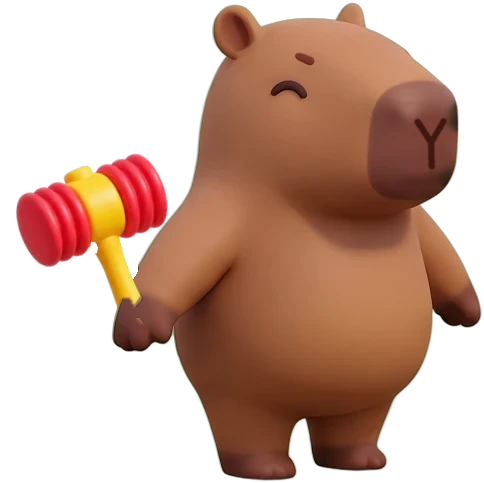
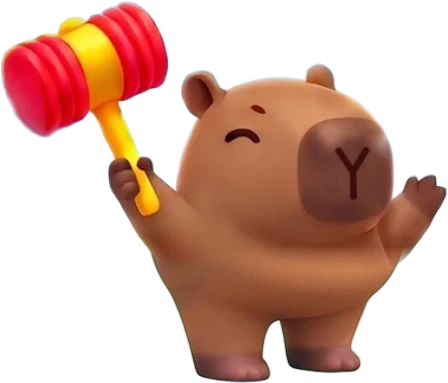
PC scene: capybara with the hammer raised (home art upper body joined to standing legs)
Claude-Session: https://claude.ai/code/session_0151HyQbunyEVHQk27fvCMAu

diff --git a/index.html b/index.html
@@ -28,7 +28,7 @@ body{margin:0;font:14px system-ui,sans-serif}
 </style>
 <script>
 (function () {
-  var BUILD = '20261114140546';
+  var BUILD = '20261114141357';
   function check() {
     fetch('version.txt?t=' + Date.now(), { cache: 'no-store' }).then(function (r) { return r.ok ? r.text() : BUILD; }).then(function (v) {
       v = (v || '').trim();
@@ -393,7 +393,7 @@ p.res-tap{display:flex;align-items:center;justify-content:center;gap:4px;font-fa
 @media (prefers-reduced-motion: reduce){*{animation-duration:1ms!important;animation-iteration-count:1!important}}
 
 /* ===== 3D redesign (backup of the previous look: backup/game.template.pre-redesign.html, git branch backup-pre-redesign) ===== */
-#home{background:#8FD3FF url(img/bg.webp?v=20261114140546) center bottom/cover no-repeat;background-attachment:local}
+#home{background:#8FD3FF url(img/bg.webp?v=20261114141357) center bottom/cover no-repeat;background-attachment:local}
 /* glancing over the shoulder: the art looks right, flipped half the time to look left */
 .char.peek.pl img.cimg{scale:-1 1}
 /* never squeeze the art to its box (some hosts add img{max-width:100%}) */
@@ -402,7 +402,7 @@ p.res-tap{display:flex;align-items:center;justify-content:center;gap:4px;font-fa
 /* duo: both seen from behind, and the capybara's back art reads smaller than the red panda's */
 #game.duo .char.capy img.cimg{scale:1.04}
 #game.duo .char.capy.peek.pl img.cimg{scale:-1.04 1.04}
-.fghill{position:absolute;left:0;top:0;width:100%;height:100%;z-index:1;pointer-events:none;background:url(img/hillfg.webp?v=20261114140546) center bottom/100% auto no-repeat}
+.fghill{position:absolute;left:0;top:0;width:100%;height:100%;z-index:1;pointer-events:none;background:url(img/hillfg.webp?v=20261114141357) center bottom/100% auto no-repeat}
 #home>.home-top,#home>.title,#home>.field{position:relative;z-index:2}
 #home>.fghill{position:absolute;flex:none;z-index:1}
 /* the bottom of the picture melts into one grass colour, the same colour the phone paints below the page */
@@ -436,7 +436,7 @@ p.res-tap{display:flex;align-items:center;justify-content:center;gap:4px;font-fa
   #pcbg .cl::after{width:40%;height:120%;right:12%;bottom:25%}
   #pcbg .bk{position:absolute;width:var(--s);height:var(--s);margin:calc(var(--s) / -2) 0 0 calc(var(--s) / -2);opacity:var(--o);animation:pcbob var(--t) ease-in-out infinite alternate}
   #pcbg .bk em{position:absolute;inset:0;transform:rotate(var(--r))}
-  #pcbg .bk i{position:absolute;inset:0;background:url(img/block.webp?v=20261114140546) center/contain no-repeat}
+  #pcbg .bk i{position:absolute;inset:0;background:url(img/block.webp?v=20261114141357) center/contain no-repeat}
   /* the letter sits on the cube's front face (its centre is left of and below the picture's centre, and the face leans) */
   #pcbg .bk b{position:absolute;left:37.5%;top:57%;transform:translate(-50%,-50%) skewY(12deg);font:700 calc(var(--s) * .36)/1 'Fredoka','Jua',sans-serif;color:#7A5320}
   #pcbg .ground{position:absolute;left:0;right:0;bottom:0;height:22vh;background:linear-gradient(rgba(140,205,95,0),#8CCD5F 45%,#79BD4E)}
@@ -444,6 +444,7 @@ p.res-tap{display:flex;align-items:center;justify-content:center;gap:4px;font-fa
   #pcbg .side.l{left:0}#pcbg .side.r{right:0}
   #pcbg .logo{position:absolute;top:36px;left:50%;transform:translateX(-50%);width:min(300px,70%);height:auto;filter:drop-shadow(0 8px 14px rgba(30,70,110,.25))}
   #pcbg .ch{height:min(26vh,230px);width:auto;position:relative}
+  #pcbg .side.l .ch{height:min(30vh,266px)} /* the capybara holds its hammer up, so its picture is taller for the same body size */
   #pcbg .sh{width:min(34%,180px);height:18px;margin:-10px 0 56px;border-radius:50%;background:radial-gradient(rgba(40,80,20,.35),rgba(40,80,20,0) 70%)}
   #pcbg .note{position:absolute;right:28px;top:28px;z-index:2;background:rgba(255,255,255,.9);border:3px solid var(--ink);border-radius:18px;padding:12px 18px;box-shadow:0 4px 0 var(--ink);color:var(--ink);font:400 18px/1.55 'Jua','Fredoka',sans-serif;white-space:nowrap}
   /* the intro film on a wide screen: the scene shows around it instead of painted bands */
@@ -502,7 +503,7 @@ html.standalone .in-ctl{padding-bottom:10px}
 .copy{color:#fff;opacity:.9;text-shadow:0 1px 3px rgba(0,0,0,.35)}
 @media (max-height:700px){.mmain{padding-block:6px}.micon{width:40px;height:40px}.mtext b{font-size:20px}.field{gap:9px;padding-top:8px}}
 /* game arena: the painted meadow; the opponent stands on the grassy ledge */
-#arena{background:#8FD3FF url(img/bg.webp?v=20261114140546) center 66%/cover no-repeat}
+#arena{background:#8FD3FF url(img/bg.webp?v=20261114141357) center 66%/cover no-repeat}
 #arena .sun,#arena .cloud,#arena .ground,#arena .ground2,#arena .groundT,#arena .groundT2,#arena .hill{display:none}
 .char img.cimg{height:100%;width:auto;display:block;animation:breathe 2.6s ease-in-out infinite;transform-origin:50% 100%;filter:drop-shadow(0 6px 5px rgba(30,50,20,.3));-webkit-user-drag:none;user-select:none}
 #char1 img.cimg{animation-delay:-1.3s}
@@ -524,7 +525,7 @@ html.standalone .in-ctl{padding-bottom:10px}
 @keyframes drip{0%{transform:translateY(0);opacity:1}100%{transform:translateY(60px);opacity:0}}
 .tut-art.lobby img{height:100%;width:auto}
 /* letter tiles thrown on the first hit look like the toy block */
-.fly{background:url(img/block.webp?v=20261114140546) center/contain no-repeat;border:0;width:38px;height:38px;margin:-19px 0 0 -19px;box-shadow:none;color:#6B4A1E;padding:5px 9px 0 0;box-sizing:border-box} /* letter on the cube's front face, not the picture's centre */
+.fly{background:url(img/block.webp?v=20261114141357) center/contain no-repeat;border:0;width:38px;height:38px;margin:-19px 0 0 -19px;box-shadow:none;color:#6B4A1E;padding:5px 9px 0 0;box-sizing:border-box} /* letter on the cube's front face, not the picture's centre */
 
 /* ===== game + popups dressed like the home screen (keyboard keeps its look) ===== */
 /* name cards, clock and top buttons: the home menu's glossy pills */
@@ -712,7 +713,7 @@ html.standalone #game .panel{padding-bottom:10px}
   <section id="home" class="screen">
     <div class="fghill" id="homeHill" aria-hidden="true"></div>
     <div class="homefade" aria-hidden="true"></div>
-    <div class="deco" aria-hidden="true"><img class="dtile" src="img/tileA.webp?v=20261114140546" alt="" style="left:3%;top:31%;--r:-8deg"><img class="dtile" src="img/tileQ.webp?v=20261114140546" alt="" style="right:3%;top:29%;--r:9deg;animation-delay:-1.2s"></div>
+    <div class="deco" aria-hidden="true"><img class="dtile" src="img/tileA.webp?v=20261114141357" alt="" style="left:3%;top:31%;--r:-8deg"><img class="dtile" src="img/tileQ.webp?v=20261114141357" alt="" style="right:3%;top:29%;--r:9deg;animation-delay:-1.2s"></div>
     <div class="home-top gut">
       <div class="lt-grp"><button class="pill" id="langBtn" type="button" hidden></button><button class="pill nick-pill" id="nickBtn" type="button"></button></div>
       <div class="rt">
@@ -723,7 +724,7 @@ html.standalone #game .panel{padding-bottom:10px}
       </div>
     </div>
     <h1 class="title gut" aria-label="First n Last">
-      <img class="logo-img" src="img/logo.webp?v=20261114140546" alt="" draggable="false">
+      <img class="logo-img" src="img/logo.webp?v=20261114141357" alt="" draggable="false">
       <span class="ribbon" data-t="tagline"></span>
     </h1>
     <div class="stage" id="homeCast"><div class="ev-banner" id="evBanner" hidden></div></div>
@@ -748,7 +749,7 @@ html.standalone #game .panel{padding-bottom:10px}
       <div class="ground"></div><div class="ground2"></div><div class="groundT"></div><div class="groundT2"></div><div class="hill"></div>
       <div class="card" id="card1"><div class="nm" id="name1"></div><div class="hearts" id="hearts1"></div></div>
       <div class="hud" id="hud"><div class="clkwrap" id="clkW"><div class="clock" id="clock">2:00</div><div class="hint-cd" id="hintCd"></div></div></div>
-      <img class="plat" src="img/plat.webp?v=20261114140546" alt="" draggable="false"><div class="char" id="char1"></div>
+      <img class="plat" src="img/plat.webp?v=20261114141357" alt="" draggable="false"><div class="char" id="char1"></div>
       <div class="mid">
         <div class="side"><div class="tile tS">?</div><span data-t="startLbl"></span></div>
         <div id="center"></div>
@@ -776,10 +777,10 @@ html.standalone #game .panel{padding-bottom:10px}
   <div class="overlay" id="ov" hidden><div class="sheet" id="sheet"></div></div>
 </div>
 <div id="intro" hidden>
-  <div class="in-splash" id="inSplash"><img class="in-logo" src="img/logo.webp?v=20261114140546" alt="First n Last" draggable="false">
+  <div class="in-splash" id="inSplash"><img class="in-logo" src="img/logo.webp?v=20261114141357" alt="First n Last" draggable="false">
     <div class="in-tap" id="inTap"><span class="in-ring" aria-hidden="true"></span><span class="in-dot" aria-hidden="true"></span><b id="inTapTxt"></b></div></div>
   <div class="in-fill in-ft" id="inFt"></div><div class="in-fill in-fb" id="inFb"></div>
-  <video id="inVid" playsinline webkit-playsinline preload="none" data-src="img/intro.mp4?v=20261114140546"></video>
+  <video id="inVid" playsinline webkit-playsinline preload="none" data-src="img/intro.mp4?v=20261114141357"></video>
   <div class="in-shade"></div>
   <div class="in-ctl" id="inCtl" hidden>
     <button type="button" class="in-btn in-snd" id="inSnd"></button>
@@ -1071,7 +1072,7 @@ const CHEV = '<svg viewBox="0 0 16 16" fill="none" stroke="currentColor" stroke-
 /* ---------- 3D character art (img/*.webp) ----------
    Each animal has 8 poses, seen from the front (f) and from behind (b):
    1 relaxed, 2 joyful jump, 3 puzzled scratch, 4 flinch, 5 one bandage, 6 two bandages, 7 knocked out, 8 wind-up throw */
-const IMGV = '20261114140546';
+const IMGV = '20261114141357';
 const img = n => `img/${n}.webp?v=${IMGV}`;
 /* PC scene beside the game (shown by CSS only on wide screens). The note follows the computer's language. */
 (function pcScene() {

diff --git a/sw.js b/sw.js
@@ -4,10 +4,10 @@
    - Pictures (their addresses carry the build number): saved on install, served from the phone.
    - Fonts and the Firebase scripts: saved the first time they load.
    - Never touched: version.txt (the update check), the intro film, the admin page, Firebase live data. */
-const BUILD = '20261114140546';
+const BUILD = '20261114141357';
 const CACHE = 'fnl-' + BUILD, EXT = 'fnl-ext';
 const SCOPE = new URL('./', self.location).href;
-const CORE = ["./", "manifest.webmanifest", "icon-192.png", "icon-512.png", "apple-touch-icon.png", "img/balloon.webp?v=20261114140546", "img/band.webp?v=20261114140546", "img/bg.webp?v=20261114140546", "img/block.webp?v=20261114140546", "img/capy_b1.webp?v=20261114140546", "img/capy_b2.webp?v=20261114140546", "img/capy_b3.webp?v=20261114140546", "img/capy_b4.webp?v=20261114140546", "img/capy_b5.webp?v=20261114140546", "img/capy_b6.webp?v=20261114140546", "img/capy_b7.webp?v=20261114140546", "img/capy_b8.webp?v=20261114140546", "img/capy_f1.webp?v=20261114140546", "img/capy_f2.webp?v=20261114140546", "img/capy_f3.webp?v=20261114140546", "img/capy_f4.webp?v=20261114140546", "img/capy_f5.webp?v=20261114140546", "img/capy_f6.webp?v=20261114140546", "img/capy_f7.webp?v=20261114140546", "img/capy_f8.webp?v=20261114140546", "img/capy_p0.webp?v=20261114140546", "img/capy_p1.webp?v=20261114140546", "img/capy_p2.webp?v=20261114140546", "img/capy_s.webp?v=20261114140546", "img/cast_capy.webp?v=20261114140546", "img/cast_capy34.webp?v=20261114140546", "img/cast_capy34_pc.webp?v=20261114140546", "img/cast_capy_up.webp?v=20261114140546", "img/cast_panda.webp?v=20261114140546", "img/cast_panda34.webp?v=20261114140546", "img/hammer.webp?v=20261114140546", "img/hillfg.webp?v=20261114140546", "img/homecast.webp?v=20261114140546", "img/logo.webp?v=20261114140546", "img/panda_b1.webp?v=20261114140546", "img/panda_b2.webp?v=20261114140546", "img/panda_b3.webp?v=20261114140546", "img/panda_b4.webp?v=20261114140546", "img/panda_b5.webp?v=20261114140546", "img/panda_b6.webp?v=20261114140546", "img/panda_b7.webp?v=20261114140546", "img/panda_b8.webp?v=20261114140546", "img/panda_f1.webp?v=20261114140546", "img/panda_f2.webp?v=20261114140546", "img/panda_f3.webp?v=20261114140546", "img/panda_f4.webp?v=20261114140546", "img/panda_f5.webp?v=20261114140546", "img/panda_f6.webp?v=20261114140546", "img/panda_f7.webp?v=20261114140546", "img/panda_f8.webp?v=20261114140546", "img/panda_p0.webp?v=20261114140546", "img/panda_p1.webp?v=20261114140546", "img/panda_p2.webp?v=20261114140546", "img/panda_s.webp?v=20261114140546", "img/plat.webp?v=20261114140546", "img/tileA.webp?v=20261114140546", "img/tileQ.webp?v=20261114140546", "img/vs.webp?v=20261114140546"];
+const CORE = ["./", "manifest.webmanifest", "icon-192.png", "icon-512.png", "apple-touch-icon.png", "img/balloon.webp?v=20261114141357", "img/band.webp?v=20261114141357", "img/bg.webp?v=20261114141357", "img/block.webp?v=20261114141357", "img/capy_b1.webp?v=20261114141357", "img/capy_b2.webp?v=20261114141357", "img/capy_b3.webp?v=20261114141357", "img/capy_b4.webp?v=20261114141357", "img/capy_b5.webp?v=20261114141357", "img/capy_b6.webp?v=20261114141357", "img/capy_b7.webp?v=20261114141357", "img/capy_b8.webp?v=20261114141357", "img/capy_f1.webp?v=20261114141357", "img/capy_f2.webp?v=20261114141357", "img/capy_f3.webp?v=20261114141357", "img/capy_f4.webp?v=20261114141357", "img/capy_f5.webp?v=20261114141357", "img/capy_f6.webp?v=20261114141357", "img/capy_f7.webp?v=20261114141357", "img/capy_f8.webp?v=20261114141357", "img/capy_p0.webp?v=20261114141357", "img/capy_p1.webp?v=20261114141357", "img/capy_p2.webp?v=20261114141357", "img/capy_s.webp?v=20261114141357", "img/cast_capy.webp?v=20261114141357", "img/cast_capy34.webp?v=20261114141357", "img/cast_capy34_pc.webp?v=20261114141357", "img/cast_capy_up.webp?v=20261114141357", "img/cast_panda.webp?v=20261114141357", "img/cast_panda34.webp?v=20261114141357", "img/hammer.webp?v=20261114141357", "img/hillfg.webp?v=20261114141357", "img/homecast.webp?v=20261114141357", "img/logo.webp?v=20261114141357", "img/panda_b1.webp?v=20261114141357", "img/panda_b2.webp?v=20261114141357", "img/panda_b3.webp?v=20261114141357", "img/panda_b4.webp?v=20261114141357", "img/panda_b5.webp?v=20261114141357", "img/panda_b6.webp?v=20261114141357", "img/panda_b7.webp?v=20261114141357", "img/panda_b8.webp?v=20261114141357", "img/panda_f1.webp?v=20261114141357", "img/panda_f2.webp?v=20261114141357", "img/panda_f3.webp?v=20261114141357", "img/panda_f4.webp?v=20261114141357", "img/panda_f5.webp?v=20261114141357", "img/panda_f6.webp?v=20261114141357", "img/panda_f7.webp?v=20261114141357", "img/panda_f8.webp?v=20261114141357", "img/panda_p0.webp?v=20261114141357", "img/panda_p1.webp?v=20261114141357", "img/panda_p2.webp?v=20261114141357", "img/panda_s.webp?v=20261114141357", "img/plat.webp?v=20261114141357", "img/tileA.webp?v=20261114141357", "img/tileQ.webp?v=20261114141357", "img/vs.webp?v=20261114141357"];
 
 self.addEventListener('install', e => {
   self.skipWaiting();
